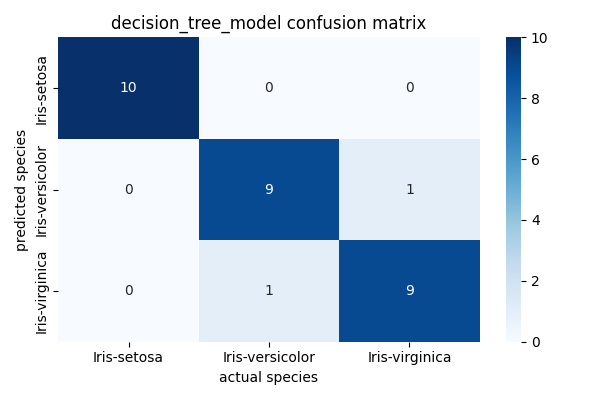
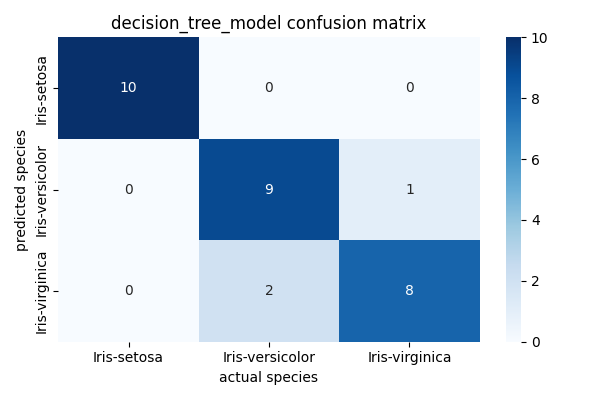
Added feature scaling and model improvements

Changed region(s): [[0.54, 0.6, 0.81, 0.87]]

diff --git a/model.py b/model.py
@@ -9,7 +9,7 @@ import pandas as pd
 import matplotlib.pyplot as plt
 import seaborn as sns
 import joblib
-from sklearn.preprocessing import LabelEncoder
+from sklearn.preprocessing import LabelEncoder,StandardScaler
 from sklearn.model_selection import train_test_split
 from sklearn.linear_model import LogisticRegression
 from sklearn.tree import DecisionTreeClassifier
@@ -90,6 +90,11 @@ X_train,X_test,y_train,y_test=train_test_split(X,y,test_size=0.2,random_state=42
 
 print(X_train.shape)
 print(X_test.shape)
+
+#feature scaling
+scaler=StandardScaler()
+X_train=scaler.fit_transform(X_train)
+X_test=scaler.transform(X_test)
 
 #step 6 : model training
 
